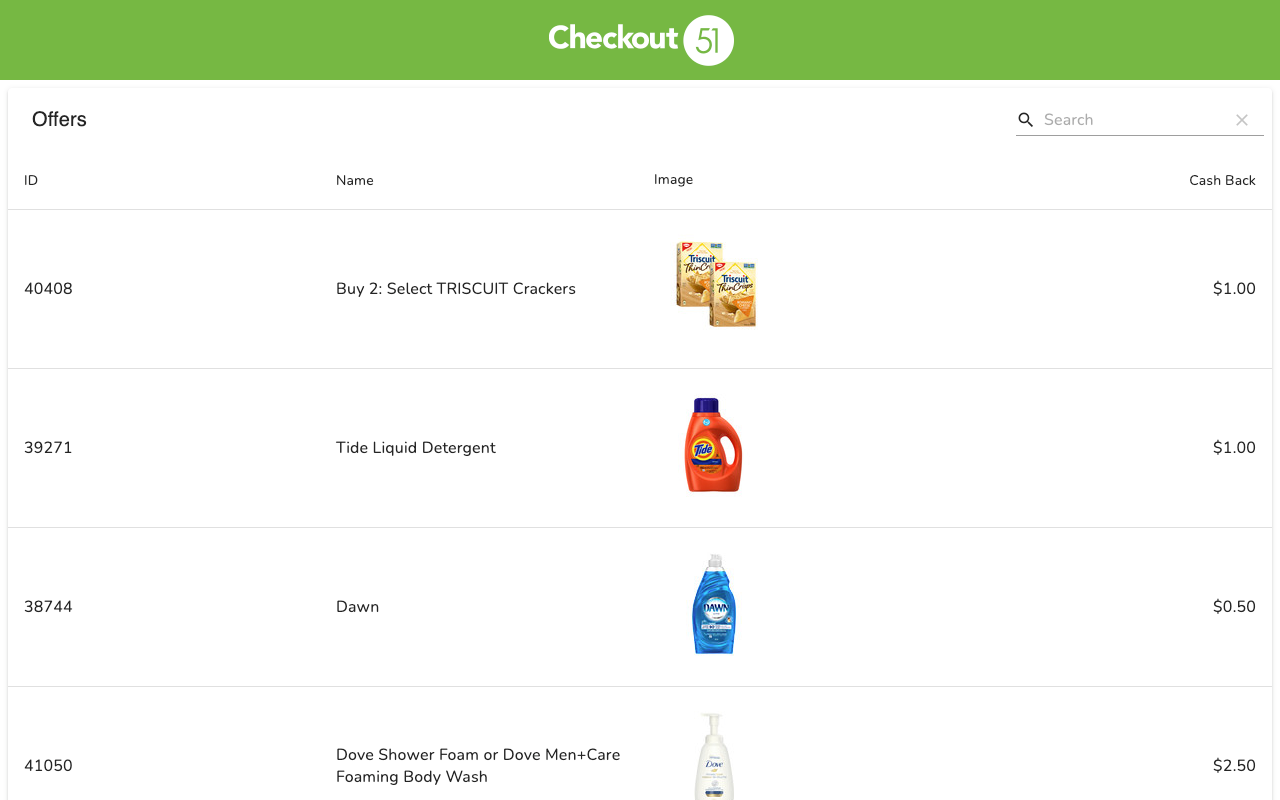
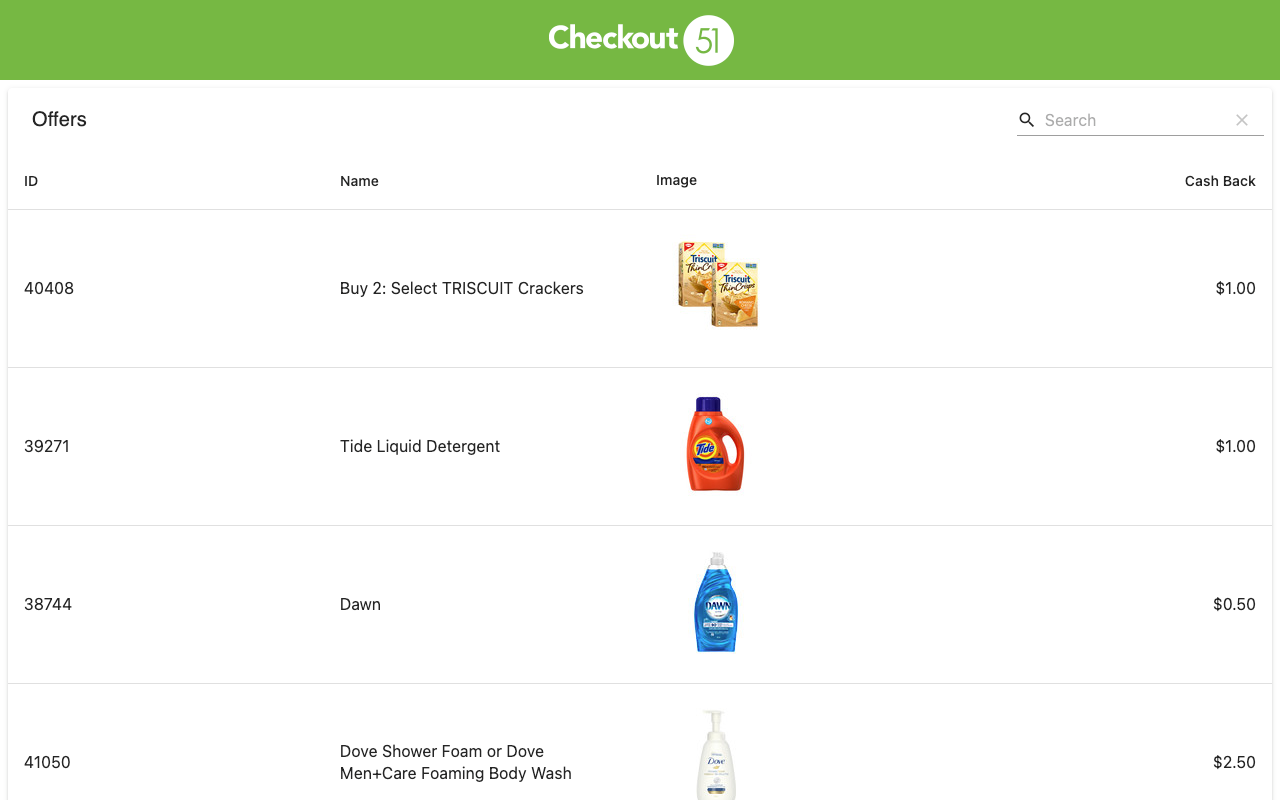
Update font

diff --git a/assets/styles/app.css b/assets/styles/app.css
@@ -1,21 +1,13 @@
 body {
-  /* font-family: Arial, Helvetica, sans-serif; */
-  font-family: "Nunito", sans-serif !important;
+  font-family: -apple-system, BlinkMacSystemFont, "Segoe UI", Roboto, Oxygen,
+    Ubuntu, Cantarell, "Open Sans", "Helvetica Neue", sans-serif;
   background-color: white;
   margin: 0;
 }
 
-.offers .MuiTableCell-root {
-  /* font-family: Arial, Helvetica, sans-serif; */
-  font-family: "Nunito", sans-serif !important;
-}
-
-.offers .MuiInputBase-root {
-  /* font-family: Arial, Helvetica, sans-serif; */
-  font-family: "Nunito", sans-serif !important;
-}
-
+.offers .MuiTableCell-root,
+.offers .MuiInputBase-root,
 .offers .MuiTypography-caption {
-  /* font-family: Arial, Helvetica, sans-serif; */
-  font-family: "Nunito", sans-serif !important;
+  font-family: -apple-system, BlinkMacSystemFont, "Segoe UI", Roboto, Oxygen,
+    Ubuntu, Cantarell, "Open Sans", "Helvetica Neue", sans-serif !important;
 }

diff --git a/README.md b/README.md
@@ -10,28 +10,22 @@ Heroku deployment: https://shrouded-harbor-16023.herokuapp.com/
 
 ## Running Tests
 
-To run backend PHPUnit tests, run the following command in the root directory of the project:
+To run all backend PHPUnit tests, run either of the following commands in the root directory of the project:
 
 ```bash
 symfony php bin/phpunit
 ```
 
-Or:
-
 ```bash
 php bin/phpunit
 ```
 
-## Generating Code
-
-To generate a backend unit test file under the `tests` directory, run:
+To run a specific test, append the relative file path like so:
 
 ```bash
-symfony console make:unit-test UnitTest
+symfony php bin/phpunit tests/Controller/OffersApiControllerTest.php
 ```
 
-To generate a backend functional test file under the `tests` directory, run:
-
 ```bash
-symfony console make:functional-test FunctionalTest
+php bin/phpunit tests/Controller/OffersApiControllerTest.php
 ```
